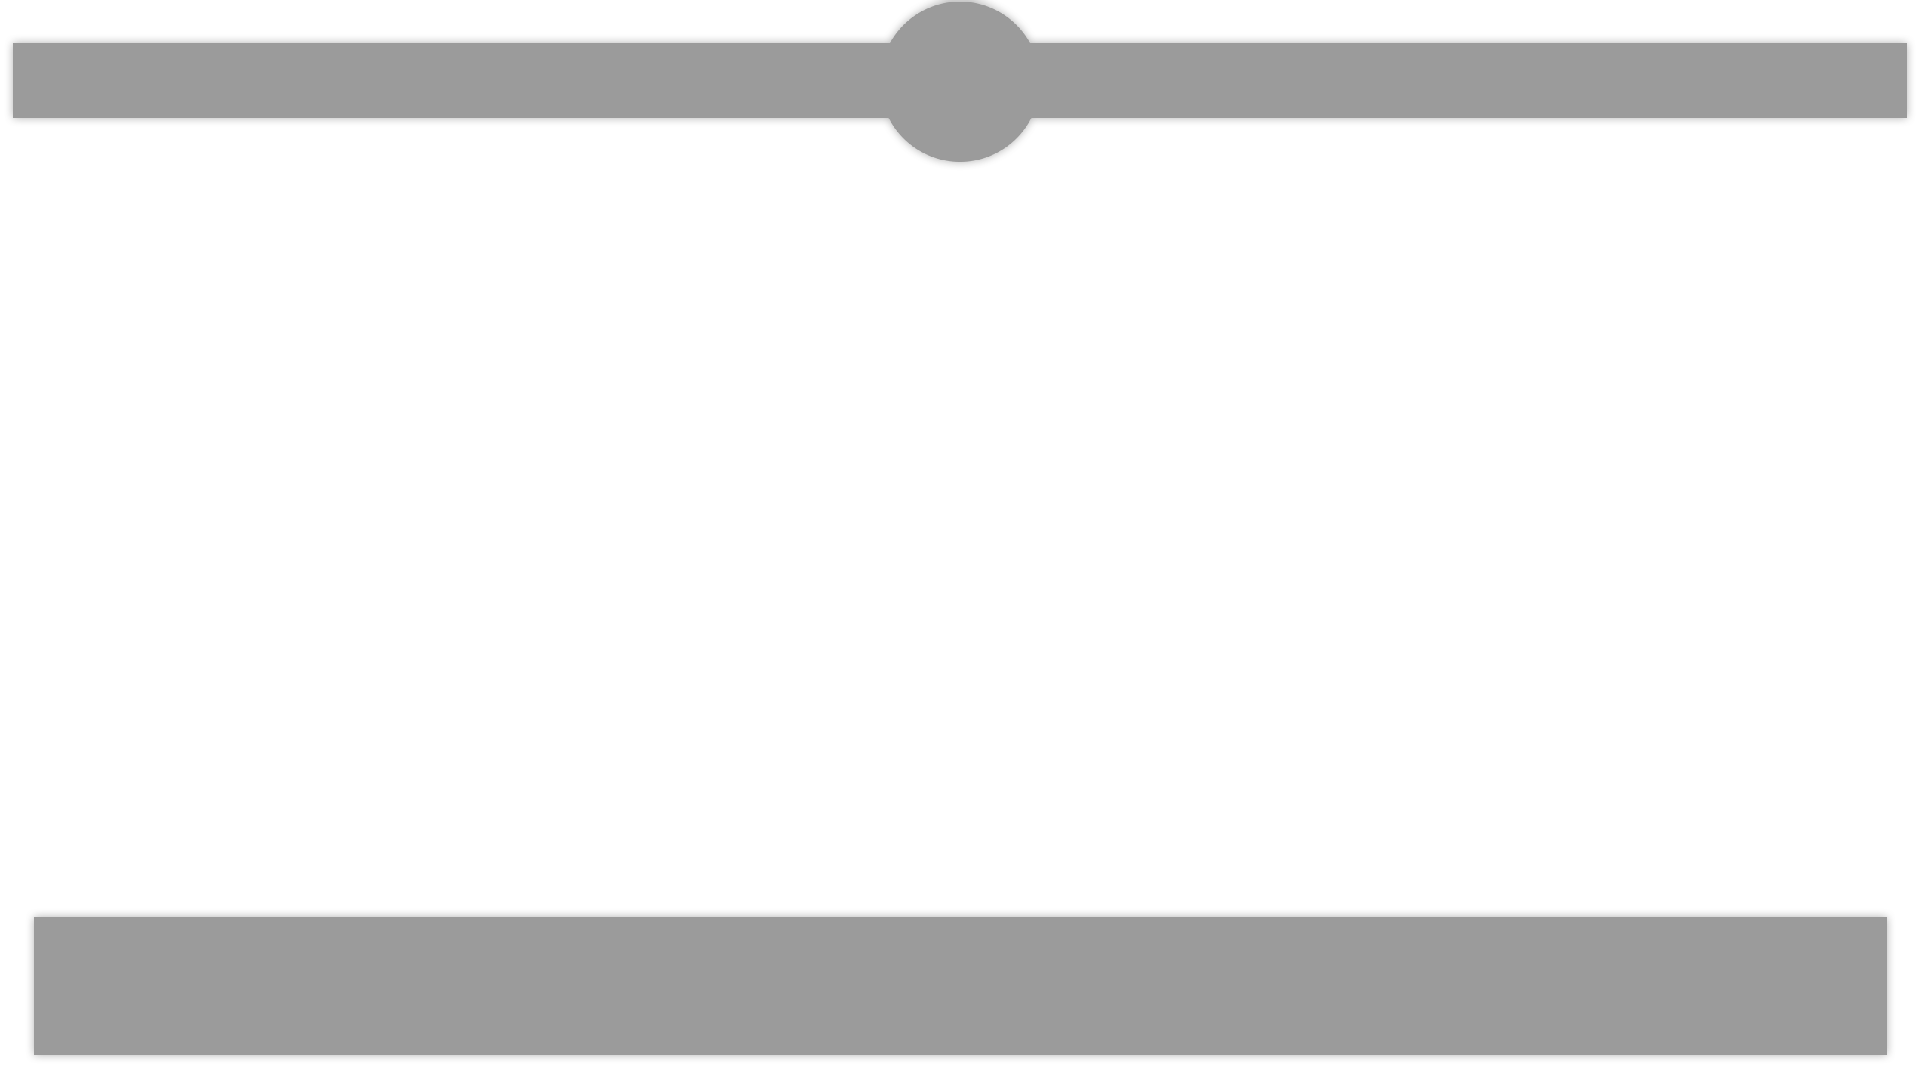
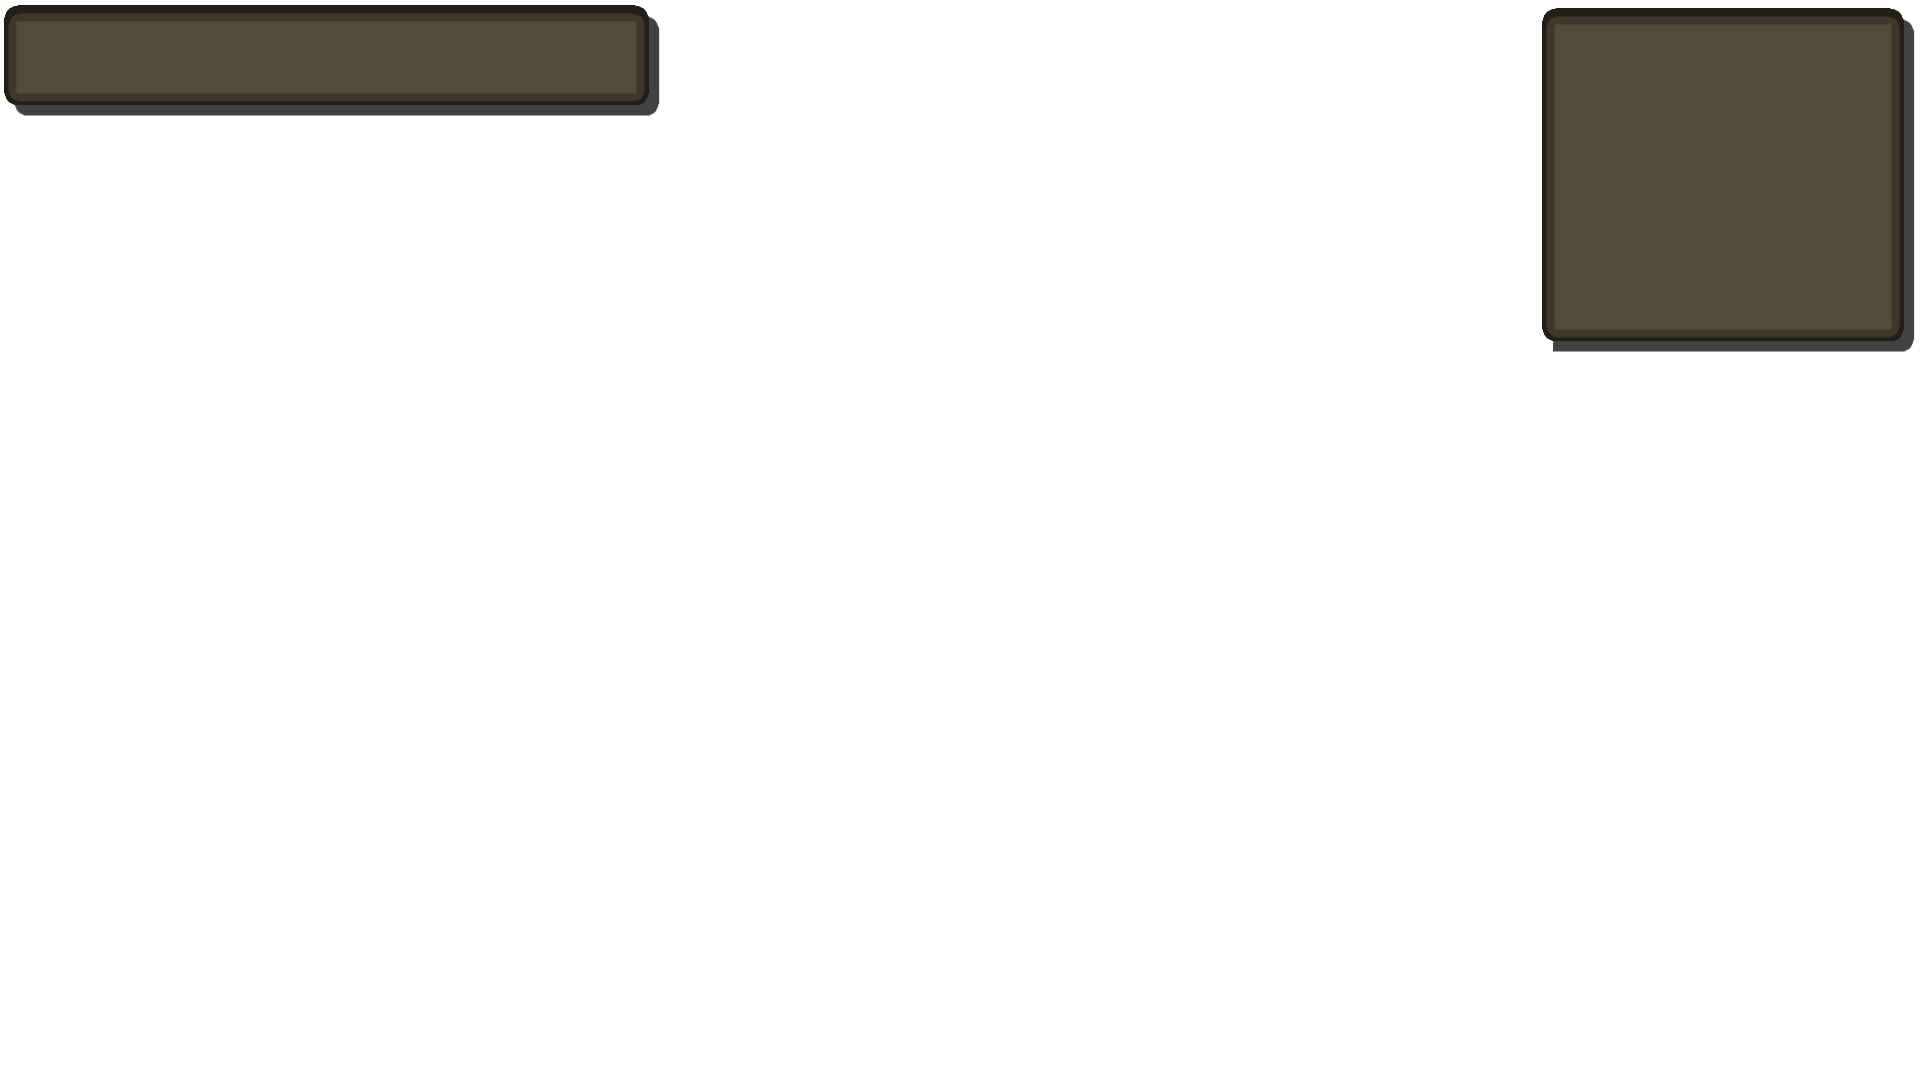
wip

Changed region(s): [[0.0, 0.0, 1.0, 0.3361], [0.0, 0.825, 1.0, 0.9778]]

diff --git a/game_service_api/controllers/image_controller.py b/game_service_api/controllers/image_controller.py
@@ -34,7 +34,7 @@ def generate_board(team_id):
     current_world = team.get("current_world", 1)
     shuffled_tiles = team.get(f"world{current_world}_shuffled_tiles", [])
     idx = shuffled_tiles.index(current_tile)
-    level = idx + 1  # 1-based index
+    level = idx + 1
     if game_state == 0:
         img_io = create_board_image(team, tile_info, level)
         return app.response_class(img_io, mimetype='image/png')
@@ -73,7 +73,7 @@ def create_key_image(team, tile_info, level=None):
                 tile_img = tile_img.convert("RGBA")  # Ensure tile image is RGBA
                 base_img.paste(tile_img, (120 + idx*320, 500), tile_img)
                 # Draw text below the image
-                draw = ImageDraw.Draw(base_img)
+                
                 font_path = os.path.join(os.path.dirname(__file__), ImageSettings.FONT)
                 font_path = os.path.abspath(font_path)
                 font = ImageFont.truetype(font_path, size=32)
@@ -112,88 +112,79 @@ def create_board_image(team, tile_info, level=None):
     """
     current_tile = team.get("current_tile")
     current_world = team.get("current_world")
+    team_name = team.get("team_name", "Unknown Team")
 
-    image_path = os.path.join(os.path.dirname(__file__), f'../images/world{current_world}/board/board_background.png')
-    image_path = os.path.abspath(image_path)
+    img_background = os.path.join(os.path.dirname(__file__), f'../images/world{current_world}/board/board_background.png')
+    img_background = os.path.abspath(img_background)
+    font_path = os.path.join(os.path.dirname(__file__), ImageSettings.FONT)
+    font_path = os.path.abspath(font_path)
+    tile_label = f"{WORLD_NAMES[current_world]} {current_world}-{level}" if level is not None else f"{current_world}-{current_tile}-{tile_info['tile_name']}"
+
     try:
-        with Image.open(image_path) as base_img:
+        with Image.open(img_background) as base_img:
+
+            draw = ImageDraw.Draw(base_img)
 
             # UI Panel
             ui_img_path = os.path.join(os.path.dirname(__file__), f'../images/user_interface.png')
             ui_img_path = os.path.abspath(ui_img_path)
             with Image.open(ui_img_path) as ui_image:
                 base_img.paste(ui_image, (0, 0), ui_image if ui_image.mode == 'RGBA' else None)
-
+            # Path Image
             path_img_path = os.path.join(os.path.dirname(__file__), f'../images/world{current_world}/path/w1path{level-1}.png')
             path_img_path = os.path.abspath(path_img_path)
             with Image.open(path_img_path) as path_img:
                 base_img.paste(path_img, (0, 0), path_img if path_img.mode == 'RGBA' else None)
-
-            # Load and paste tile image on top
+            # Team Bubble Image
+            team_image_path = os.path.join(os.path.dirname(__file__), f'../images/teams/{team.get("team_image_path", "1.png")}')
+            team_image_path = os.path.abspath(team_image_path)
+            with Image.open(team_image_path) as team_img:
+                base_img.paste(team_img, world1_tile_image_coordinates[level], team_img if team_img.mode == 'RGBA' else None)
+            # Tile image graphic
+            map_coordinate = ImageSettings.TILE_IMAGE_COORDINATES
             current_tile_img_path = os.path.join(os.path.dirname(__file__), f'../images/world{current_world}/tiles/{current_tile}.png')
             current_tile_img_path = os.path.abspath(current_tile_img_path)
             with Image.open(current_tile_img_path) as tile_img:
-                # Resize tile image to exactly 90x90
-                # Resize tile image to fit within 90x90 while keeping aspect ratio
-                max_size = (140, 140)
-                tile_img.thumbnail(max_size, Image.NEAREST)
-                # Get map image coordinate
-                shuffled_tiles = team.get(f"world{current_world}_shuffled_tiles", [])
-                current_tile = team.get("current_tile")
-                current_world = team.get("current_world")
-
-                idx = shuffled_tiles.index(current_tile)
-                level = idx + 1
-
-                map_coordinate = 920, 22
-
+                tile_img = tile_img.convert("RGBA")
+                tile_img = tile_img.resize(ImageSettings.TILE_IMAGE_SCALE, Image.NEAREST)
                 # Draw black outline behind the tile image
-                outline_width = 1
+                outline_width = 2
                 x, y = map_coordinate
                 mask = tile_img.split()[-1] if tile_img.mode == 'RGBA' else None
+                # Create a black image for the outline, same size as tile_img
+                black_img = Image.new("RGBA", tile_img.size, (0, 0, 0, 255))
                 for dx in range(-outline_width, outline_width + 1):
                     for dy in range(-outline_width, outline_width + 1):
                         if dx == 0 and dy == 0:
                             continue
-                        base_img.paste((0, 0, 0), (x + dx, y + dy), mask)
+                        base_img.paste(black_img, (x + dx, y + dy), mask)
                 base_img.paste(tile_img, map_coordinate, mask)
 
-                # Draw outlined text underneath the image
-                draw = ImageDraw.Draw(base_img)
-                font_path = os.path.join(os.path.dirname(__file__), ImageSettings.FONT)
-                font_path = os.path.abspath(font_path)
-                font = ImageFont.truetype(font_path, size=40)
-                text = f"{tile_info['tile_name']}"
-                text_x = 240
-                text_y = 930
-                
-                # Draw outline
-                outline_range = 2
-                for ox in range(-outline_range, outline_range + 1):
-                    for oy in range(-outline_range, outline_range + 1):
-                        if ox == 0 and oy == 0:
-                            continue
-                        draw.text((text_x + ox, text_y + oy), text, font=font, fill="black", anchor="ma")
-                # Draw main text, left aligned
-                draw.text((text_x, text_y), text, font=font, fill="yellow", anchor="la")
-                draw.text((text_x, text_y + 50), tile_info['description'], font=font, fill="white", anchor="la")
-
-            draw = ImageDraw.Draw(base_img)
-            font_path = os.path.join(os.path.dirname(__file__), ImageSettings.FONT)
-            font_path = os.path.abspath(font_path)
-            font = ImageFont.truetype(font_path, size=50)
-
-            team_name = team['team_name']
+            font = ImageFont.truetype(font_path, size=ImageSettings.TEAM_TEXT_FONT_SIZE)
             text_color = (255, 255, 255)
-            text_position = (base_img.width - 20, 50)
-            text_position_tile = (0 + 20, 50)
 
-            draw.text(text_position, team_name, fill=text_color, font=font, anchor="ra")  # Right alignment
+            # Top left - Team Name and Level
+            draw.text((ImageSettings.LEVEL_TEXT_COORDINATES[0]+4, ImageSettings.LEVEL_TEXT_COORDINATES[1] + 4), tile_label, fill="black", font=font, anchor="la")
+            draw.text(ImageSettings.LEVEL_TEXT_COORDINATES, tile_label, fill=text_color, font=font, anchor="la")
+            
+            # Top right - Tile info
+            font = ImageFont.truetype(font_path, size=ImageSettings.LEVEL_TEXT_FONT_SIZE)
+            outline_range = 2
+            for ox in range(-outline_range, outline_range + 1):
+                for oy in range(-outline_range, outline_range + 1):
+                    if ox == 0 and oy == 0:
+                        continue
+                    draw.text((ImageSettings.TILE_IMAGE_TEXT_COORDINATES[0] + ox, ImageSettings.TILE_IMAGE_TEXT_COORDINATES[1] + oy), tile_info['tile_name'], font=font, fill="black", align="center")
+            draw.text((ImageSettings.TILE_IMAGE_TEXT_COORDINATES[0], ImageSettings.TILE_IMAGE_TEXT_COORDINATES[1]), tile_info['tile_name'], fill="yellow", font=font, align="center")
+            font = ImageFont.truetype(font_path, size=18)
+            for ox in range(-outline_range, outline_range + 1):
+                for oy in range(-outline_range, outline_range + 1):
+                    if ox == 0 and oy == 0:
+                        continue
+                    draw.text((ImageSettings.TILE_IMAGE_TEXT_COORDINATES_DESCRIPTION[0] + ox, ImageSettings.TILE_IMAGE_TEXT_COORDINATES_DESCRIPTION[1] + oy), tile_info['description'], font=font, fill="black", align="center")
+            draw.text((ImageSettings.TILE_IMAGE_TEXT_COORDINATES_DESCRIPTION[0], ImageSettings.TILE_IMAGE_TEXT_COORDINATES_DESCRIPTION[1]), tile_info['description'], fill="white", font=font, align="center")
 
-            # If level is provided, use it (discord_id version), else use team['current_tile'] (team_id version)
-            tile_label = f"{WORLD_NAMES[current_world]} {team['current_world']}-{level}" if level is not None else f"{current_world}-{current_tile}-{tile_info['tile_name']}"
-            draw.text(text_position_tile, tile_label, fill=text_color, font=font, anchor="la")
-
+            font = ImageFont.truetype(font_path, size=ImageSettings.TEAM_TEXT_FONT_SIZE)
             img_io = BytesIO()
             base_img.save(img_io, 'PNG')
             img_io.seek(0)

diff --git a/game_service_api/constants/image_settings.py b/game_service_api/constants/image_settings.py
@@ -1,2 +1,10 @@
 class ImageSettings:
     FONT = "../assets/Perfect DOS VGA 437.ttf"
+    TILE_IMAGE_COORDINATES = (1668, 24)
+    TILE_IMAGE_TEXT_COORDINATES = (1570, 147)
+    TILE_IMAGE_TEXT_COORDINATES_DESCRIPTION = (1570, 178)
+    TILE_IMAGE_SCALE = (130, 130)
+    TEAM_TEXT_FONT_SIZE = 60
+    LEVEL_TEXT_COORDINATES = (55, 25)
+    LEVEL_TEXT_FONT_SIZE = 32
+    TEAM_NAME_COORDINATES = (0, 50)  # Right aligned, so only Y matters

diff --git a/game_service_api/models/team.py b/game_service_api/models/team.py
@@ -30,3 +30,5 @@ class Team:
     w2boss_completion_counter: int = 3
     w3boss_completion_counter: int = 1
     w4boss_completion_counter: int = 5
+
+    team_image_path: str = "1.png"

diff --git a/game_service_api/constants/coordinates.py b/game_service_api/constants/coordinates.py
@@ -1,5 +1,5 @@
 world1_tile_image_coordinates = {
-    1: (329, 290),
+    1: (374, 496),
     2: (470, 333),
     3: (545, 465),
     4: (720, 430),
